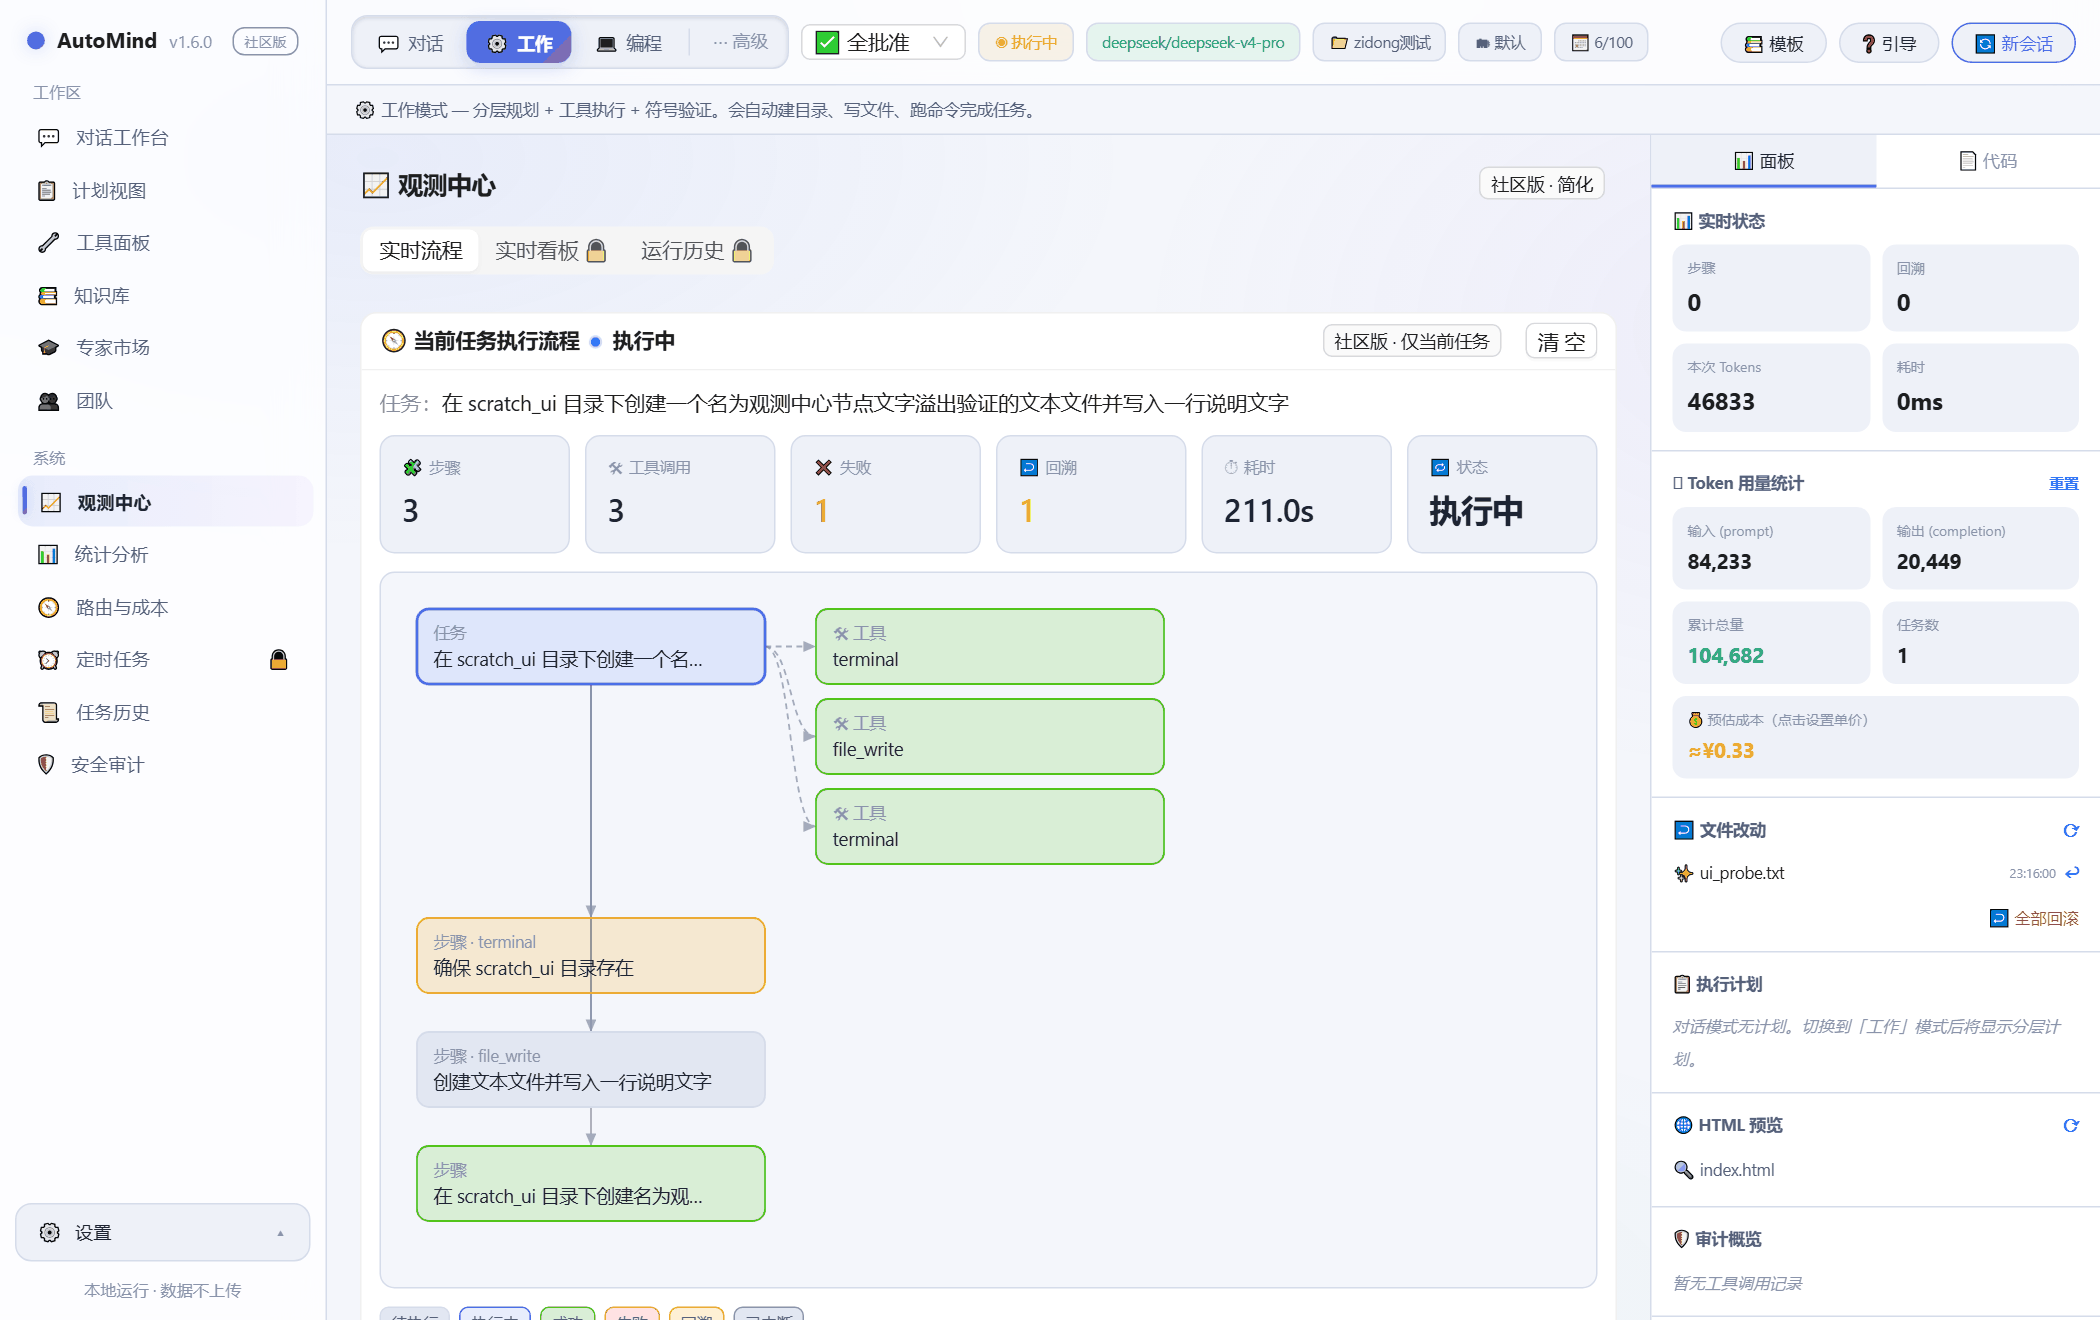
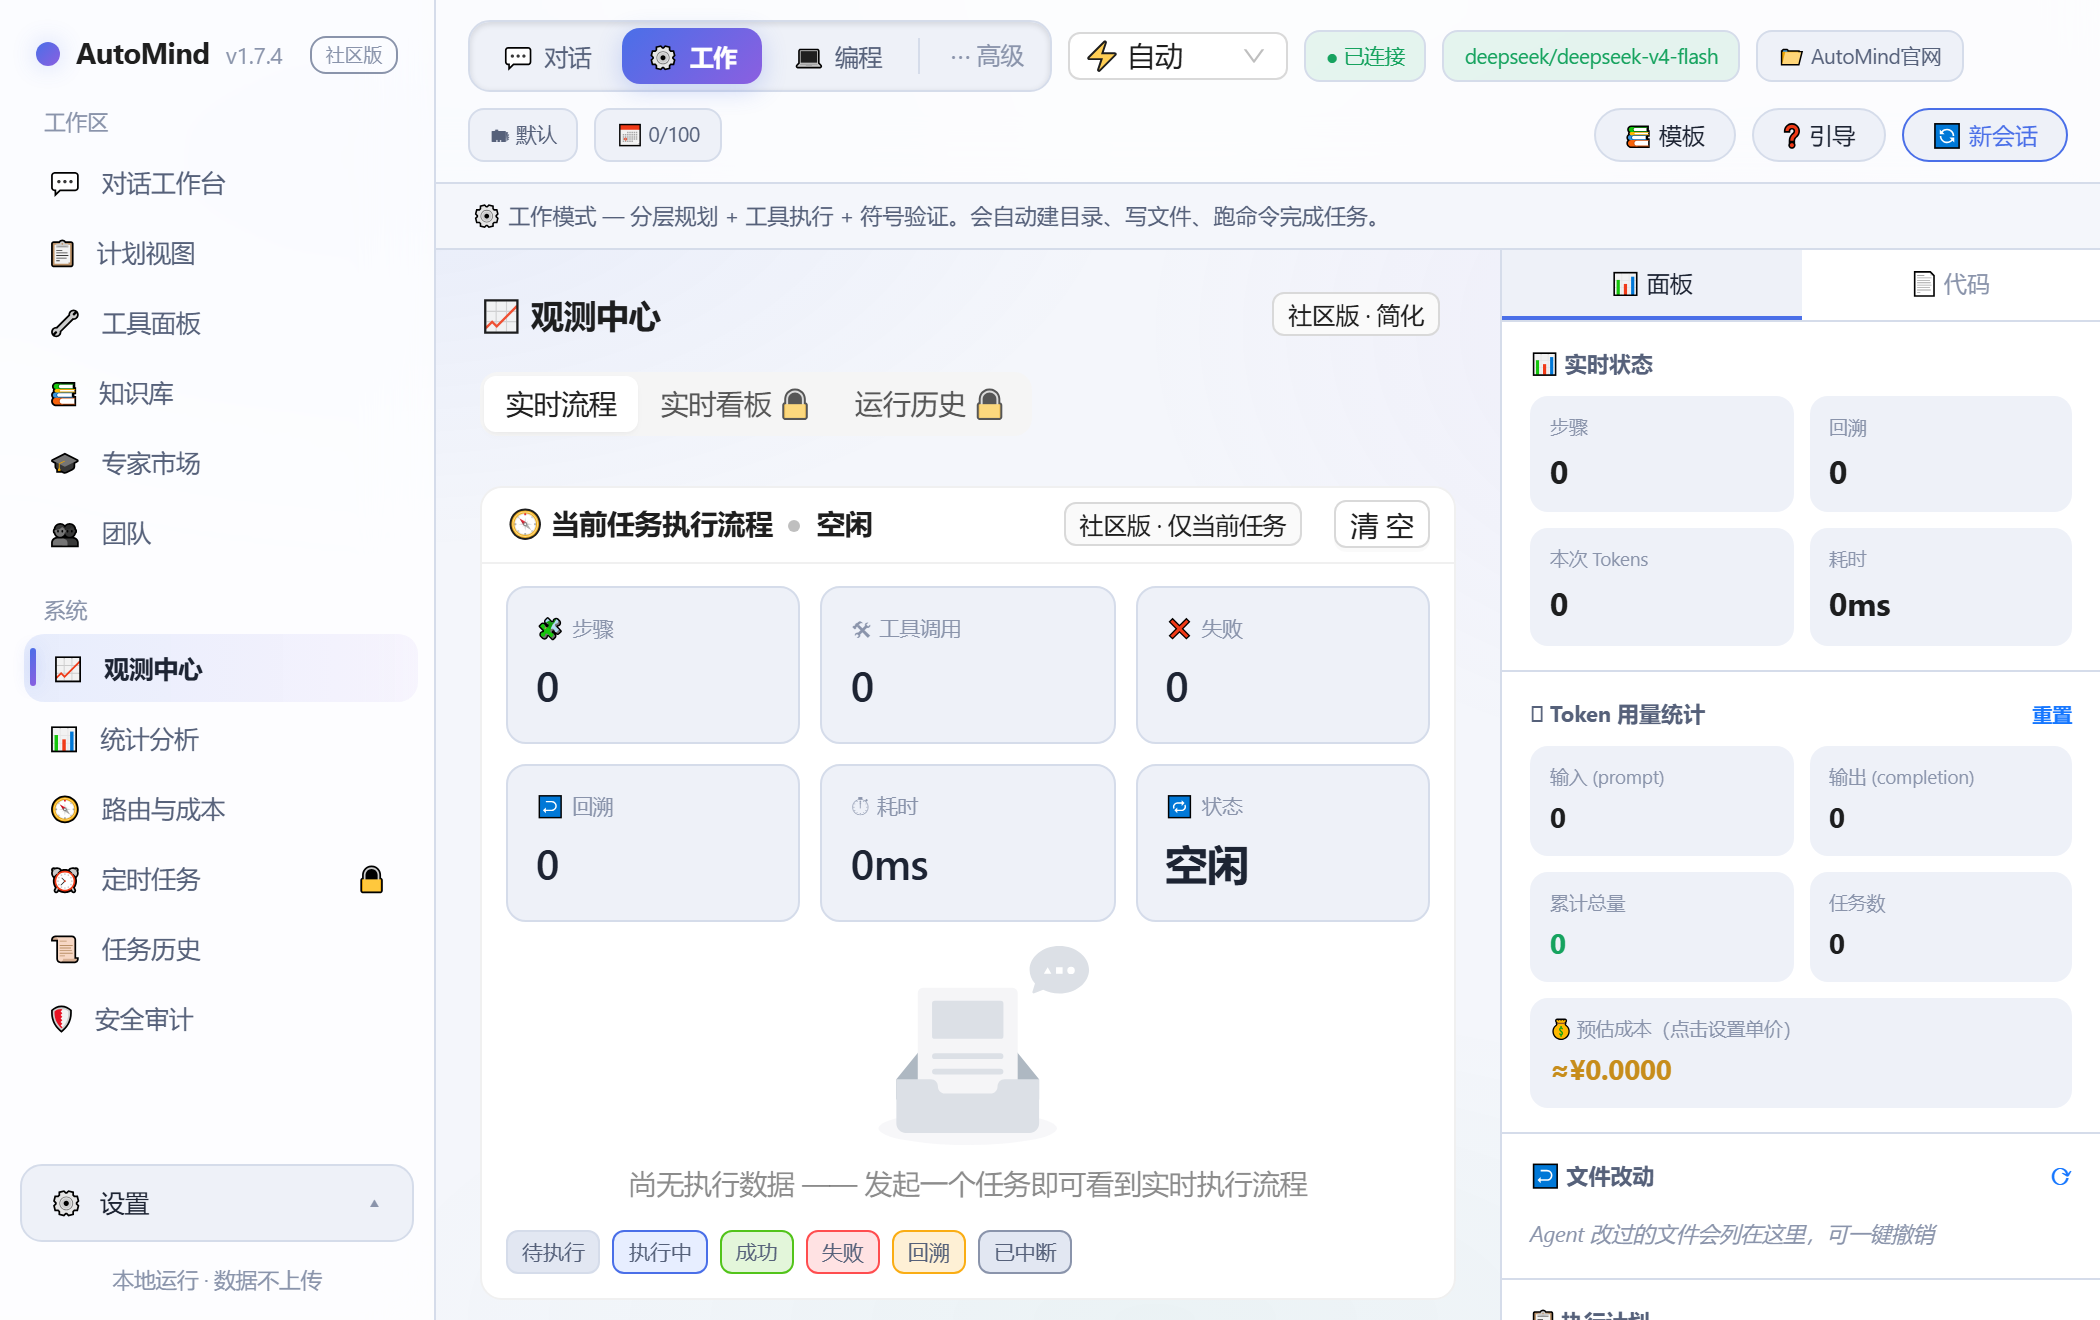
docs(community): 版本状态与界面图对齐 1.7.4 —— PyPI 已同步、截图换成真机
## README：把"过期的话"删掉，而不是留着

- **删掉"PyPI 落后于本仓库、最新只到 1.3.2"那段**。它已经变成假话：PyPI 上
  1.7.4 已发布（2026-09-18 14:16 UTC），而这段文字会让用户绕开本可以直接用的
  安装方式。改成"PyPI 已同步"+ 指向 Releases 与 SHA256SUMS 校验方式。
  英文版同一处一并更正。
- 补 **Host 准入（AUTOMIND_TRUSTED_HOSTS）** 的使用说明：这一版把"仅本机允许"的
  判定从 IP 换成 Host（挡 DNS 重绑定），走反代/隧道/内网域名的人需要这一行，
  否则会撞 403。中英 README 都写在同一节，与实现放在一起。

## 界面图：换成 1.7.4 冻结包的真机截图

原先 5 张图停在 **v1.6.0**（图里左上角就印着 v1.6.0）。手工截图会带开发机的
时间、任务历史与个人路径；mock 出来的界面又会"货不对板"。故新增
`scripts/shot_readme.py`：**跑打包好的发行版本体**（`--server-only` 起服务），
用 Playwright 驱动 Edge 按 `device_scale_factor=2` 截同一视口尺寸 —— 换图不跳动，
且下次改界面时重跑一条命令即可，不必再手抄。

- 截图前先关掉首次运行的 4 步引导（否则每张图正中都是同一个弹窗）；
- `chat.png` / `tools.png` / `observe.png` / `plan.png` / `kb.png` 全部重截，
  图内版本号为 v1.7.4。

## SECURITY.md：支持版本与威胁模型

- 支持矩阵 `1.6.x` → **`1.7.x`**（原表还停留在两版之前，用户按它判断自己是否
  在支持范围内会得到错误结论）。
- 威胁模型补一条**属于漏洞**的情形：未授权访问默认配置（绑回环、未设令牌）的
  实例，含 DNS 重绑定与恶意网页经 WebSocket 驱动本机 Agent 这类"看起来来自本机"
  的手法 —— 与 v1.7.4 的实现改动成对。

## 未改动（核对后确认无需变）

- `CONTRIBUTING.md`：开发/测试/PR 流程与当前 CI 口径一致，无版本号；
- `.github/CODE_OF_CONDUCT.md`、`PULL_REQUEST_TEMPLATE.md`、`CODEOWNERS`：与版本无关；
- `LICENSE`：标准 MIT 全文，逐字核对无缺漏、无版本信息。

## 顺带

`RELEASE.md` 补齐"桌面三平台怎么构建、本地怎么留档、Release 附件怎么传"的操作段
（Windows 必须本机构建并验签、DMG/deb 走 CI、校验和必须叫 `SHA256SUMS`）。

验证：`pytest tests/test_version_consistency.py -q` 通过；README 内截图路径与实际
文件一一对应；`git status` 内 `dist/`（含三平台包与校验和）按既有规则不入库。

diff --git a/scripts/shot_readme.py b/scripts/shot_readme.py
@@ -1,0 +1,92 @@
+"""用打包好的桌面版（--server-only）截取 README 界面图。
+
+为什么不用 mock 或手工截图：
+  · 手工截图会带开发机的时间、任务历史与个人路径；
+  · mock 出来的界面与真机不一致，README 就变成"货不对板"。
+这里跑的是**发行版冻结包**本身，看到什么就截什么。
+
+用法：
+    python scripts/shot_readme.py <base_url> <out_dir>
+"""
+
+from __future__ import annotations
+
+import sys
+from pathlib import Path
+
+# README 现用图的尺寸基准（device_scale_factor=2）：保持同一比例，换图不跳动
+VIEWPORT = {"width": 1050, "height": 660}
+SCALE = 2
+
+#: 「侧边栏文字 → 截图文件名」——README 界面一览用的几张图
+NAV_SHOTS = [
+    ("工具面板", "tools.png"),
+    ("观测中心", "observe.png"),
+    ("计划视图", "plan.png"),
+    ("知识库", "kb.png"),
+]
+
+
+def _dismiss_onboarding(page) -> None:
+    """关掉首次运行的 4 步引导。
+
+    不关掉的话每张图正中都是同一个弹窗 —— 那是"用户第一次打开"的样子，
+    不是"这个界面长什么样"，README 需要的是后者。
+    """
+    for text in ("跳过引导", "跳过"):
+        try:
+            el = page.get_by_text(text, exact=True).first
+            if el.is_visible(timeout=2500):
+                el.click()
+                page.wait_for_timeout(700)
+                return
+        except Exception:
+            continue
+    # 兜底：右上角关闭按钮
+    try:
+        page.locator(".ant-modal-close, [aria-label='Close']").first.click(timeout=2000)
+        page.wait_for_timeout(700)
+    except Exception:
+        pass
+
+
+def main() -> int:
+    base = sys.argv[1] if len(sys.argv) > 1 else "http://127.0.0.1:18770"
+    out = Path(sys.argv[2] if len(sys.argv) > 2 else "docs/images")
+    out.mkdir(parents=True, exist_ok=True)
+
+    from playwright.sync_api import sync_playwright
+
+    with sync_playwright() as p:
+        browser = p.chromium.launch(channel="msedge")
+        page = browser.new_page(viewport=VIEWPORT, device_scale_factor=SCALE)
+
+        page.goto(base, wait_until="load", timeout=60_000)
+        try:
+            page.wait_for_selector("#sidebar, .sidebar, aside", timeout=30_000)
+        except Exception:
+            page.wait_for_timeout(3000)
+        page.wait_for_timeout(2000)
+        _dismiss_onboarding(page)
+        page.wait_for_timeout(1500)
+
+        target = out / "chat.png"
+        page.screenshot(path=str(target))
+        print(f"[shot] {target}  {target.stat().st_size} bytes")
+
+        for label, name in NAV_SHOTS:
+            try:
+                page.get_by_text(label, exact=True).first.click(timeout=6000)
+                page.wait_for_timeout(2600)      # 视图切换 + 数据加载
+                target = out / name
+                page.screenshot(path=str(target))
+                print(f"[shot] {target}  {target.stat().st_size} bytes")
+            except Exception as e:
+                print(f"[skip] {label}: {type(e).__name__}: {e}")
+
+        browser.close()
+    return 0
+
+
+if __name__ == "__main__":
+    raise SystemExit(main())

diff --git a/RELEASE.md b/RELEASE.md
@@ -54,30 +54,87 @@ automind-community-<ver>-src.zip           ← 开源上传源码包（白名单
 > python -u -c "import setuptools.build_meta as b; print(b.build_sdist('dist')); print(b.build_wheel('dist'))"
 > ```
 >
-> 再跑 `python scripts/build_community.py` 补"源码包 + 审计"两步即可
-> （该脚本内部仍会调一次 `python -m build`）。
+> 再补"源码包 + 审计"两步即可（`scripts/build_community.py` 内部仍会调一次
+> `python -m build`，v1.7.4 实测仍会卡住，故那两步单跑：`build_source_zip()`
+> 与 `audit()`）。
 > 另外 `[tool.setuptools.packages.find]` 已加 `exclude`（`web/`、`desktop/`、
 > `promo/`…）：`find_packages(where=".")` 会递归遍历整个工作区去找
 > `__init__.py`，包括 `web/node_modules` 与 `desktop/dist` 里 playwright 的
 > 90MB 二进制 —— **打包器看的是文件系统，不是 .gitignore**。
 
-**v1.7.3 已构建并审计通过**（2026-09-18 重打，`twine check` PASSED）：
+**v1.7.4 已构建并审计通过**（2026-09-18，`twine check` PASSED）：
 
 | 产物 | 大小 | sha256 |
 |---|---|---|
[6 lines of base64/hex data omitted]
 
-> **为什么重打过一次**：首次构建（09-17 23:23）之后才修掉"py3.11 上 webhook
-> 投递协程取消不干净导致 CI 挂死"这个缺陷（commit `843d933`）。旧产物里**不含**
-> 该修复，若照旧上传，PyPI 上的 1.7.3 与仓库里的 1.7.3 会是两份不同的代码 ——
-> 这类"发出去的和修好的不是同一个东西"必须避免。重打后已逐项核验：
-> wheel 内 `automind/core/webhooks.py` 带 `_IDLE_POLL_S` 轮询、`aclose` 已导出、
-> `background.py` 带取消修复，且 Web 静态资源 / 评测套件 / 工作流 / 连接器模块都在包内。
+> v1.7.4 核验项：wheel 内 `automind/core/http_guard.py` 在包内且 `server.py`
+> 已接线（`_host_allowed` + `host_denied` 日志）、`updater._SUMS_ASSETS` 认两个
+> 校验和名字、`env_detector` 捕获 `OSError`、Web 静态资源为本次前端构建产物；
+> 三份产物内均无绝对路径泄漏（`Administrator`/`Desktop` 零命中）。
 
 > 上传 PyPI 仍需先按「上传 PyPI（社区版）」一节配好 Trusted Publisher，
-> 或用本机 twine（`dist/automind_agent-1.7.3-*` 已就绪）。
+> 或用本机 twine（`dist/automind_agent-1.7.4-*` 已就绪）。
+
+## 构建桌面三平台安装包
+
+| 平台 | 怎么来 | 产物 | 签名 |
+|---|---|---|---|
+| Windows | **本机** `desktop\build_release.ps1 -SkipWeb` | `desktop\Output\AutoMind-Setup-<ver>.exe` | Certum 代码签名证书（本机证书存储）+ RFC3161 时间戳 |
+| macOS | CI `desktop-build.yml`（`workflow_dispatch`） | `AutoMind-<ver>.dmg`（通用二进制） | 配了 `MAC_CERT_P12_BASE64` 等 secrets 才签名；未配则 ad-hoc，DMG 仍可安装 |
+| Linux | 同上 | `automind_<ver>_amd64.deb` | 无（deb 不做签名） |
+
+Windows 包**必须本机构建**：CI 产的既未签名、也不含内嵌 WebView2 引导器，
+`desktop-build.yml` 因此刻意不 attach 它（历史上出过"CI 未签名版覆盖已签名版"的事故）。
+
+```powershell
+cd desktop
+$env:AUTOMIND_CERT_THUMBPRINT = "<证书指纹>"
+.\build_release.ps1 -SkipWeb      # 前端没改时跳过重建
+```
+
+> 证书指纹查看：`Get-ChildItem Cert:\CurrentUser\My -CodeSigningCert`。
+> 构建末尾会**自动验签**（主程序 + 安装包都必须 `Valid`），不通过直接失败。
+
+**装完必须冒烟**（冻结包里少一个 datas 是"能装能开、一用就错"的典型来源）：
+
+```powershell
+$p = Start-Process -PassThru .\dist\AutoMind\AutoMind.exe -ArgumentList "--server-only","--port","18766"
+Invoke-WebRequest http://127.0.0.1:18766/api/health -UseBasicParsing | Select-Object -Expand Content
+Stop-Process -Id $p.Id -Force
+```
+
+`/api/health` 里 `version` 必须等于本次版本号、`edition` 必须是 `community`。
+
+## 本地归档与上传 Release
+
+**先在本地凑齐三平台包，再一次性建 Release**（避免"发布页上缺一个平台"的中间态）：
+
+```powershell
+# 1) Windows 包进 dist\desktop\
+Copy-Item desktop\Output\AutoMind-Setup-<ver>.exe dist\desktop\ -Force
+# 2) 下载 CI 的 macOS / Linux 产物
+gh run download <run-id> --dir $env:TEMP\automind-release-<ver>
+Copy-Item <dmg> dist\desktop\ ; Copy-Item <deb> dist\desktop\
+# 3) 校验和（文件名必须是 SHA256SUMS，见下节）
+# 4) 建 Release：tag 随之创建
+gh release create v<ver> --title "AutoMind v<ver>" --notes-file dist\release_notes_v<ver>.md `
+  dist\desktop\AutoMind-Setup-<ver>.exe <dmg> <deb> `
+  dist\desktop\SHA256SUMS dist\desktop\RELEASE-INFO.txt `
+  dist\automind_agent-<ver>-py3-none-any.whl dist\automind_agent-<ver>.tar.gz `
+  dist\automind-community-<ver>-src.zip
+```
+
+**本机留档**：三平台包与校验和同时复制一份到 `dist\releases\v<ver>\`
+（按版本分目录，便于日后回溯"这一版到底发了什么"）。
+`dist/` 已在 `.gitignore` 内 —— 留档是本地行为，不进版本库。
+
+> ⚠ **建 Release = 建 tag**，而 tag 会同时触发 `publish.yml`（PyPI）与
+> `desktop-build.yml`。PyPI 未配 Trusted Publisher 时 `publish` 作业会红 ——
+> 那是"没配"，不是"发坏了"；桌面包本身由上面的手工上传保证齐全。
+> 若本次不想动 PyPI，别用 `git push --tags`，让 tag 只随 Release 创建。
 
 ## 构建商业版（内部）
 

diff --git a/README.md b/README.md
@@ -130,9 +130,10 @@ pip install "automind-agent[web]"     # Web + OpenAI 兼容后端
 # 升级：pip install -U "automind-agent[web]"；全部模型后端换成 [full]
 ```
 
-> ⚠ **PyPI 上的版本目前落后于本仓库。** PyPI 最新为 `1.3.2` —— 项目的 PyPI
-> Trusted Publisher 登记尚未完成，发布流水线的构建与审计每次都通过、只卡在最后
-> 一步上传。在此之前，想用最新版请走**方式 A 或方式 B**。
+> ✅ **PyPI 已同步至最新版**：`pip install -U "automind-agent[web]"` 拿到的就是本仓库
+> 当前版本。桌面安装包见 [Releases](https://github.com/yl13571844594-arch/AutoMind/releases/latest)
+> （Windows `.exe` 已代码签名 · macOS `.dmg` 通用二进制 · Linux `.deb`），
+> 三平台包的 `SHA256SUMS` 随 Release 一并提供，可直接 `sha256sum -c` 校验。
 
 ```bash
 # 启动 Web 工作台（推荐）
@@ -288,6 +289,11 @@ docker compose up --build
   ```
 
   前端请求需带 `Authorization: Bearer <token>`，WebSocket 用 `ws://host/ws?token=<token>`。
+- **Host 准入（v1.7.4）**：所有"仅本机允许"的判定（管理动作 / 目录浏览 / 令牌端点）
+  以请求头 `Host` 为准 —— 挡住了 **DNS 重绑定**（把外部域名解析到 `127.0.0.1`，
+  借"IP 是回环"冒充本机）。从 `localhost` / `127.0.0.1` 访问无感；
+  走反向代理、隧道或内网域名的，把域名写进 `AUTOMIND_TRUSTED_HOSTS`
+  （逗号分隔，支持 `*.example.com`），否则会被 403 —— 报错文案里会写明怎么填。
 - **健康检查**：`GET /api/health`（无需鉴权）返回版本、运行任务数、并发上限、uptime，供探活/负载均衡。
 - **资源保护**：并发任务超过 `AUTOMIND_MAX_CONCURRENT` 时返回 429。
 

diff --git a/README.en.md b/README.en.md
@@ -139,10 +139,11 @@ pip install "automind-agent[web]"     # Web + OpenAI-compatible backends
 # Upgrade: pip install -U "automind-agent[web]"; use [full] for every backend
 ```
 
-> ⚠ **PyPI currently lags behind this repository.** The newest release on PyPI is
-> `1.3.2` because the project's PyPI Trusted Publisher registration is still pending;
-> the packages themselves build and pass audit on every release. Until that is resolved,
-> use the installers or a source install to get the latest version.
+> ✅ **PyPI is up to date**: `pip install -U "automind-agent[web]"` gets you the same
+> version as this repository. Desktop installers live on
+> [Releases](https://github.com/yl13571844594-arch/AutoMind/releases/latest)
+> (Windows `.exe` code-signed · macOS `.dmg` universal · Linux `.deb`),
+> and each release ships a `SHA256SUMS` file you can check with `sha256sum -c`.
 
 ```bash
 # Start the Web workbench (recommended)
@@ -275,6 +276,7 @@ every tool call (allowed / needs confirmation / dangerous). Destructive commands
 | `AUTOMIND_RATE_LIMIT` | Per-client per-minute limit for `/api/run` (0 = off) |
 | `AUTOMIND_REDACT_SECRETS` | Redact API keys / tokens in task output |
 | `AUTOMIND_ALLOWED_ORIGINS` | WebSocket `Origin` allowlist |
+| `AUTOMIND_TRUSTED_HOSTS` | Extra `Host` names allowed to reach the service (comma-separated, `*.example.com` supported). Needed behind a reverse proxy / tunnel; loopback names always work |
 
 ```bash
 export AUTOMIND_AUTH_TOKEN="your-secret-token"
